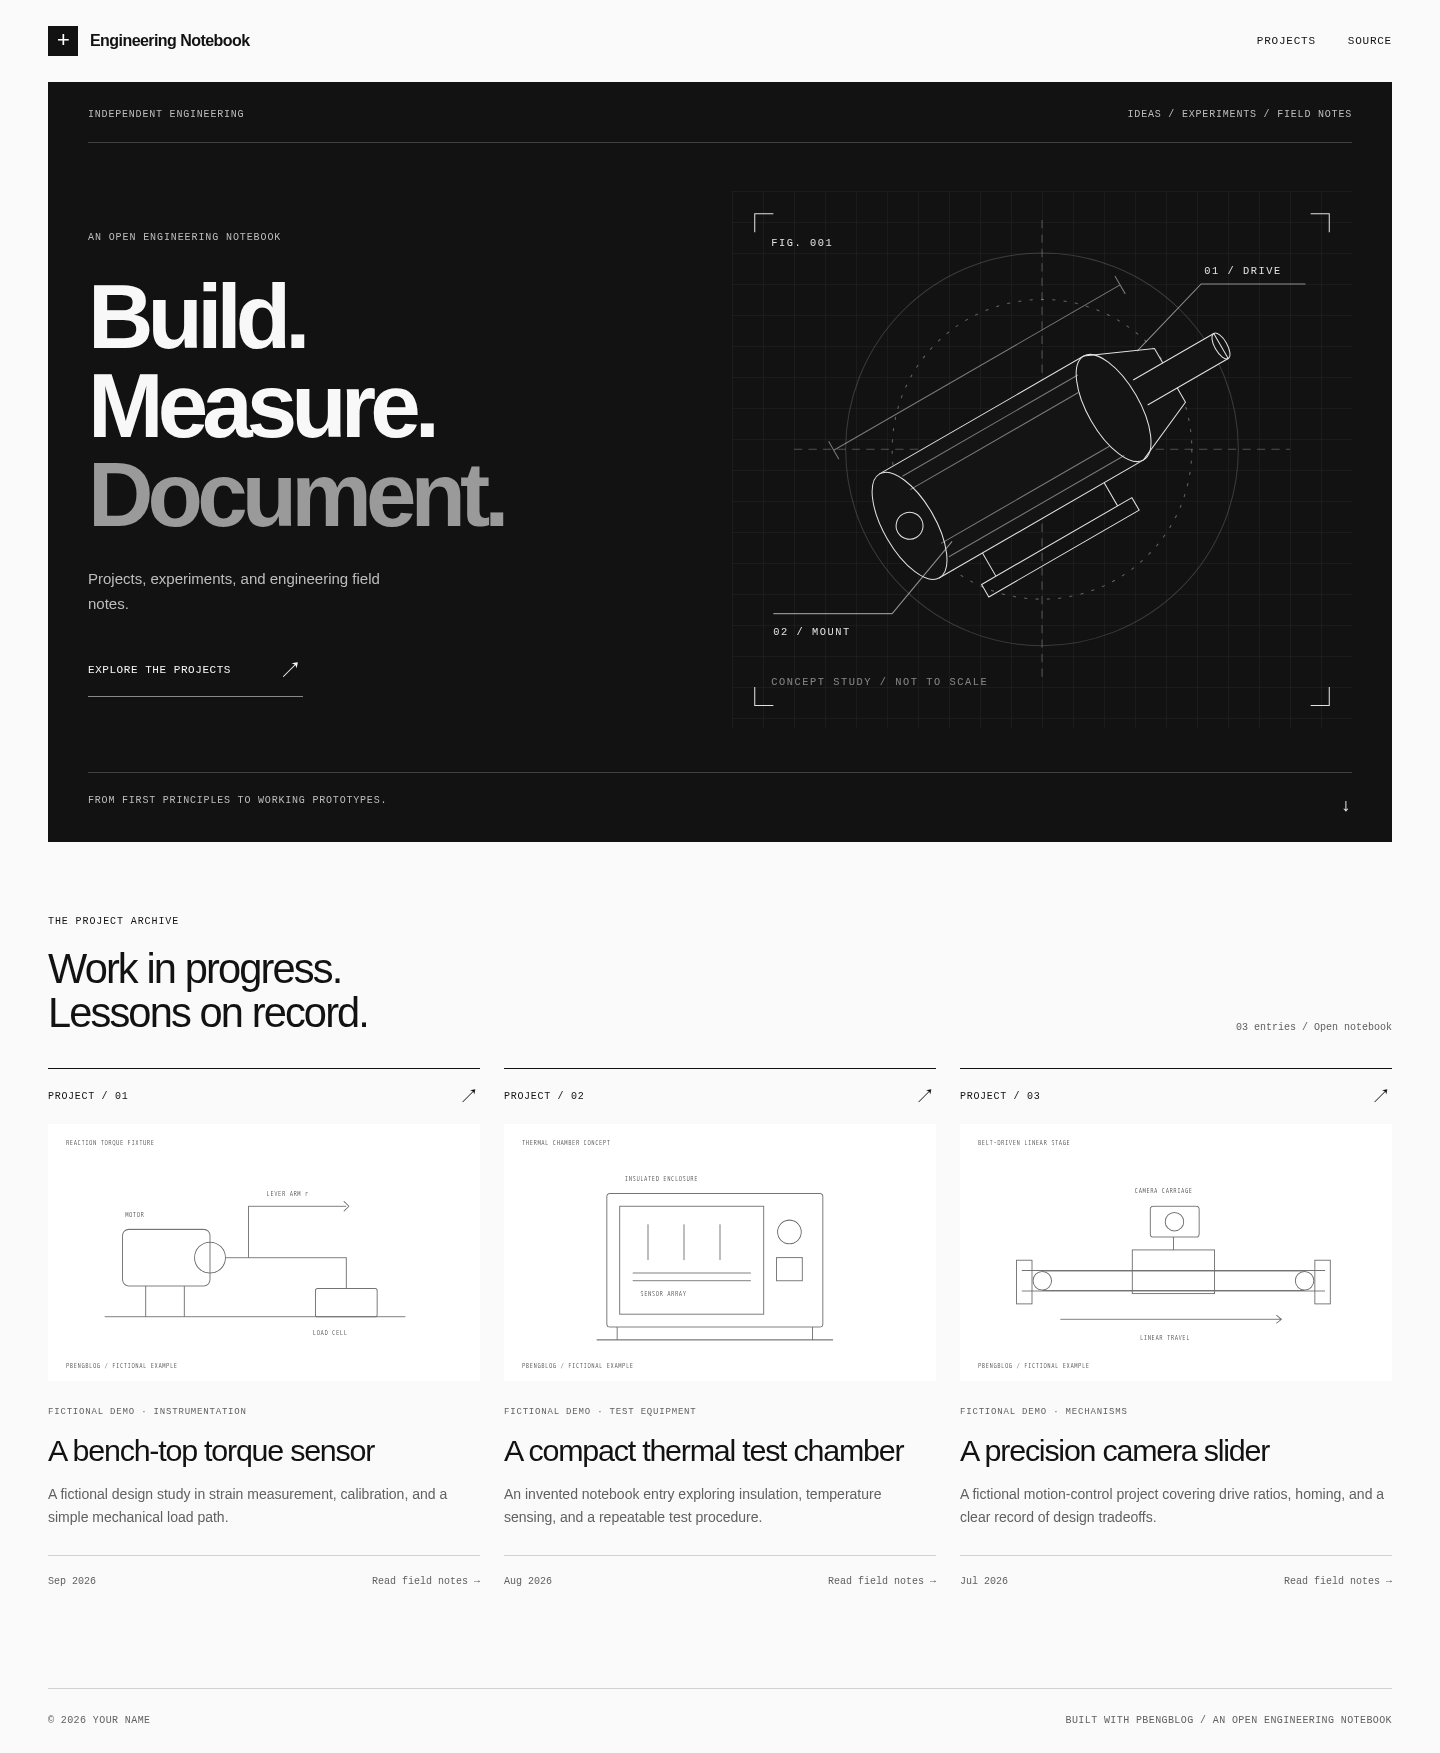
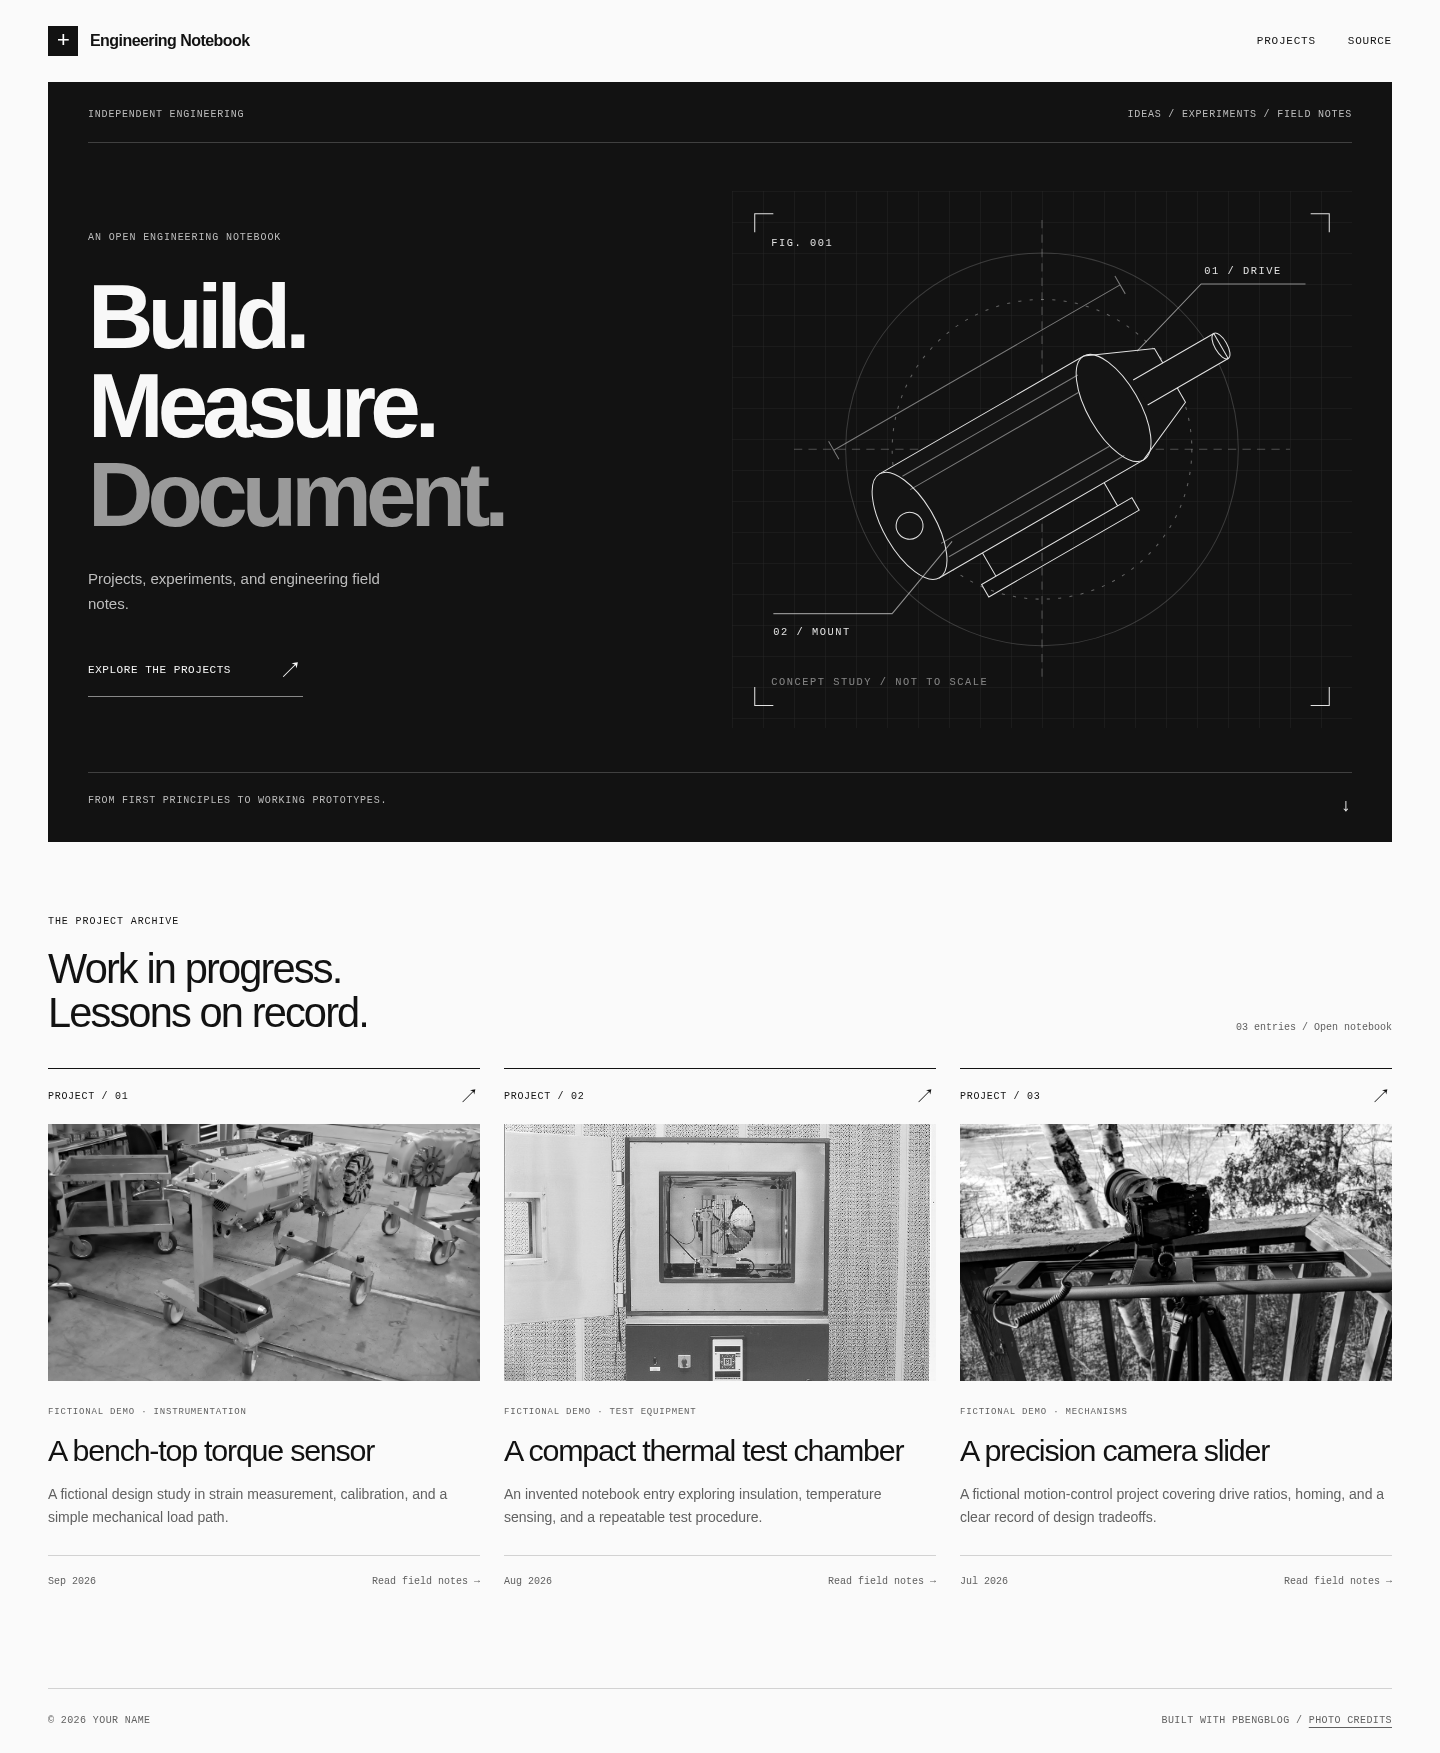
Use attributed real equipment photos for fictional example projects

Changed region(s): [[0.0312, 0.6161, 0.9688, 0.8009]]

diff --git a/shared/demo.ts b/shared/demo.ts
@@ -18,7 +18,7 @@ export const demos: Article[] = [
     summary:
       "A fictional design study in strain measurement, calibration, and a simple mechanical load path.",
     category: "Fictional demo · Instrumentation",
-    cover: "/demo/torque-sensor.svg",
+    cover: "/demo/torque-sensor.jpg",
     version: 1,
     updatedAt: "2026-09-01T00:00:00.000Z",
     blocks: [
@@ -35,9 +35,9 @@ export const demos: Article[] = [
         id: "diagram",
         type: "image",
         props: {
-          url: "/demo/torque-sensor.svg",
+          url: "/demo/torque-sensor.jpg",
           caption:
-            "Illustrative arrangement of the motor, lever arm, and load cell.",
+            "Reference photo: Artic tram motor on a stand, by Antti Leppänen (CC BY 4.0). The fictional sensor project is not pictured.",
         },
       },
       heading("math", "Show your work"),
@@ -60,7 +60,7 @@ export const demos: Article[] = [
     summary:
       "An invented notebook entry exploring insulation, temperature sensing, and a repeatable test procedure.",
     category: "Fictional demo · Test equipment",
-    cover: "/demo/thermal-chamber.svg",
+    cover: "/demo/thermal-chamber.jpg",
     version: 1,
     updatedAt: "2026-08-15T00:00:00.000Z",
     blocks: [
@@ -77,8 +77,9 @@ export const demos: Article[] = [
         id: "chamber",
         type: "image",
         props: {
-          url: "/demo/thermal-chamber.svg",
-          caption: "Concept sketch, not a fabrication drawing.",
+          url: "/demo/thermal-chamber.jpg",
+          caption:
+            "Reference photo: Weiss heat/cold test chamber, by Cjp24 (CC BY-SA 3.0). The fictional chamber project is not pictured.",
         },
       },
       heading("model", "A first-order model"),
@@ -105,7 +106,7 @@ export const demos: Article[] = [
     summary:
       "A fictional motion-control project covering drive ratios, homing, and a clear record of design tradeoffs.",
     category: "Fictional demo · Mechanisms",
-    cover: "/demo/camera-slider.svg",
+    cover: "/demo/camera-slider.jpg",
     version: 1,
     updatedAt: "2026-07-20T00:00:00.000Z",
     blocks: [
@@ -122,8 +123,9 @@ export const demos: Article[] = [
         id: "slider",
         type: "image",
         props: {
-          url: "/demo/camera-slider.svg",
-          caption: "Illustrative belt-driven carriage.",
+          url: "/demo/camera-slider.jpg",
+          caption:
+            "Reference photo: Rhino RŌV PRO Traveler camera slider, by Tony Webster (CC BY 2.0). The fictional slider project is not pictured.",
         },
       },
       heading("resolution", "Command resolution"),

diff --git a/apps/web/app/layout.tsx b/apps/web/app/layout.tsx
@@ -33,7 +33,10 @@ export default function Layout({ children }: { children: React.ReactNode }) {
           <span>
             © {new Date().getFullYear()} {site.author}
           </span>
-          <span>Built with PBEngBlog / An open engineering notebook</span>
+          <span>
+            Built with PBEngBlog /{" "}
+            <a href="/demo/PHOTO-CREDITS.txt">Photo credits</a>
+          </span>
         </footer>
       </body>
     </html>

diff --git a/apps/web/app/monochrome.css b/apps/web/app/monochrome.css
@@ -211,10 +211,10 @@ header.site-header {
   width: 100%;
   height: auto;
   aspect-ratio: 1.68;
-  object-fit: contain;
+  object-fit: cover;
   border-radius: 0;
   margin: 0;
-  filter: grayscale(1) contrast(1.2);
+  filter: grayscale(1);
   transition: transform 0.3s;
 }
 .card:hover img {

diff --git a/README.md b/README.md
@@ -8,6 +8,8 @@ The template includes three clearly labeled fictional projects: a torque sensor,
 
 ![PBEngBlog homepage with a black-and-white engineering theme and three fictional projects](docs/images/homepage.png)
 
+Example photos: Antti Leppänen, Cjp24, and Tony Webster. See [photo sources and licenses](apps/web/public/demo/PHOTO-CREDITS.txt), including credits for the screenshot above.
+
 ## Architecture
 
 - **Editor:** Next.js and BlockNote, protected by single-user HTTP Basic authentication. Run privately behind HTTPS or an SSH tunnel.
